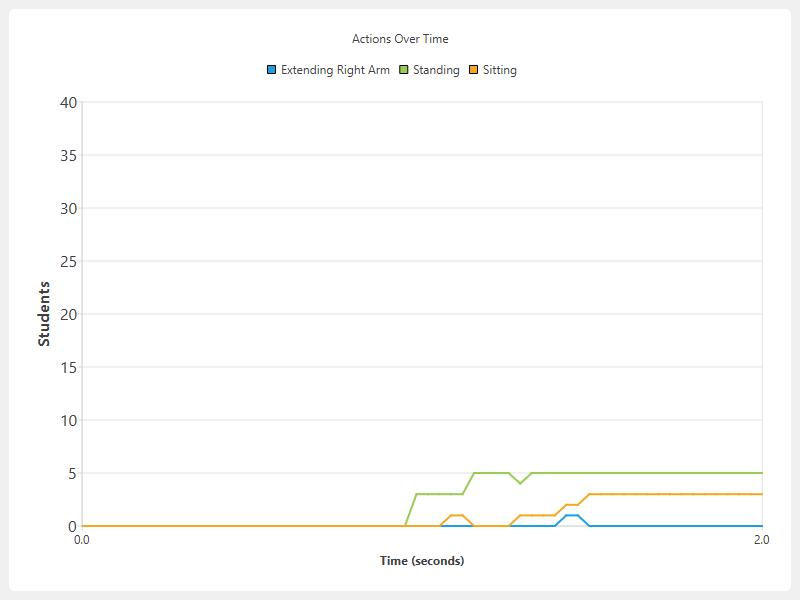
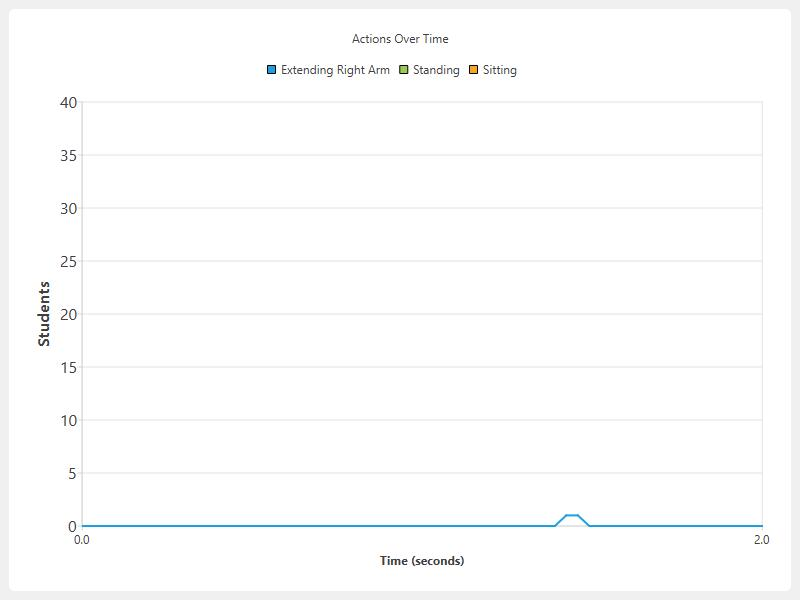
fix the graphs
still need the heatmaps
pdfs integration

Changed region(s): [[0.0938, 0.78, 0.9688, 0.9], [0.5938, 0.84, 0.7188, 0.9]]

diff --git a/RESTRUCTURED_APPLICATION/gui/DataChart.py b/RESTRUCTURED_APPLICATION/gui/DataChart.py
@@ -1,5 +1,5 @@
 from PySide6.QtCharts import QChart, QChartView, QLineSeries, QValueAxis
-from PySide6.QtWidgets import QGraphicsScene, QSizePolicy, QVBoxLayout, QPushButton, QWidget,QFileDialog
+from PySide6.QtWidgets import QGraphicsScene, QSizePolicy, QVBoxLayout, QPushButton, QWidget,QFileDialog, QApplication
 from PySide6.QtGui import QPainter, QFont
 from PySide6.QtCore import Qt
 import pandas as pd
@@ -164,13 +164,14 @@ class ActionVisualization:
         output_dir = os.path.join(os.path.dirname(__file__), "..", "outputs")
         os.makedirs(output_dir, exist_ok=True)  # Ensure the directory exists
 
-        original_active_actions = self.active_actions.copy()  # Save current active actions
+        original_active_actions = self.active_actions.copy()  # Save the original state
 
         # Export separate charts for each action
         for action in self.action_labels:
-            self.active_actions = {action}  # Enable only the current action
-            self.populate_chart()
+            self.active_actions = {action}  # Enable only one action at a time
+            self.populate_chart()  # Re-populate the chart
             self.chart.update()
+            QApplication.processEvents()  # Force UI update before capturing
 
             # Save the individual action chart
             action_filename = f"{action.replace(' ', '_')}.jpg"
@@ -182,6 +183,7 @@ class ActionVisualization:
         self.active_actions = set(self.action_labels)  # Enable all actions
         self.populate_chart()
         self.chart.update()
+        QApplication.processEvents()  # Force UI update before capturing
 
         all_actions_path = os.path.join(output_dir, "All_Actions.jpg")
         pixmap = self.chart_view.grab()
@@ -191,5 +193,6 @@ class ActionVisualization:
         self.active_actions = original_active_actions
         self.populate_chart()
         self.chart.update()
+        QApplication.processEvents()  # Ensure UI returns to normal
 
         print(f"Charts saved in: {output_dir}")
